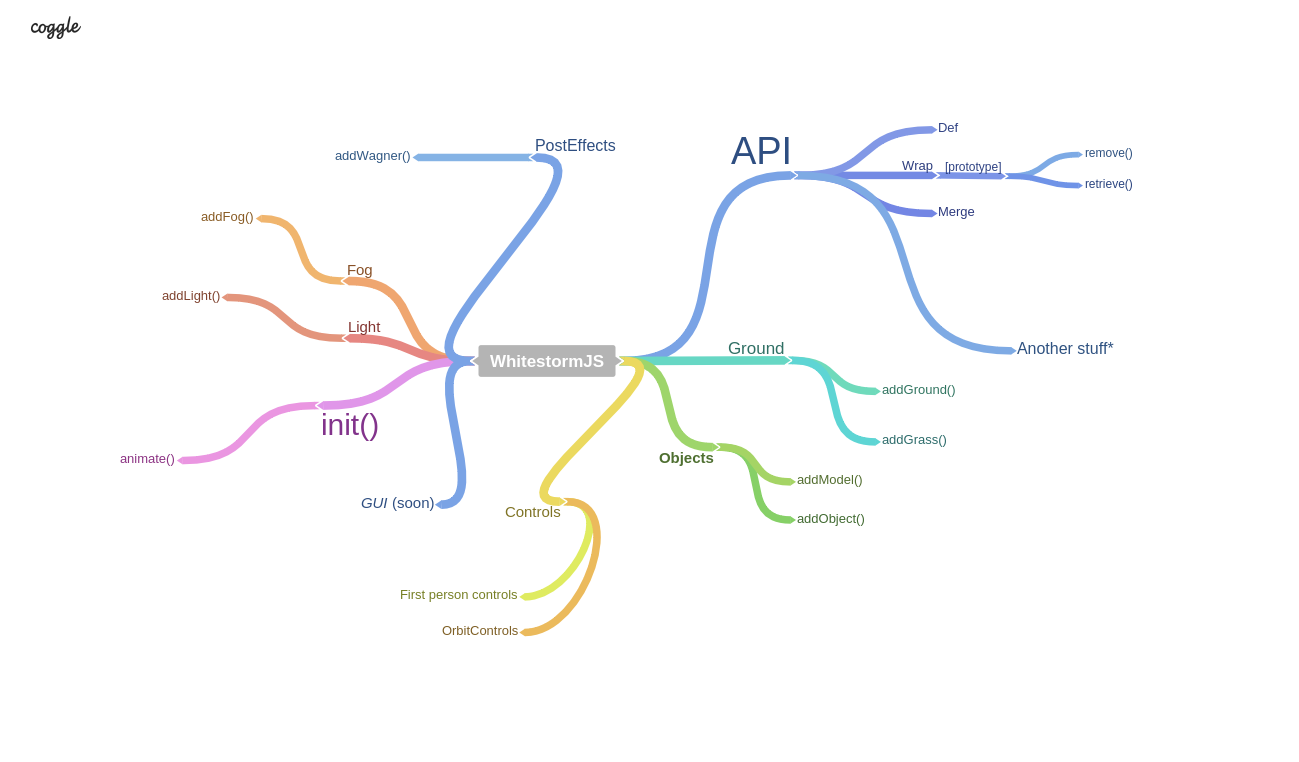
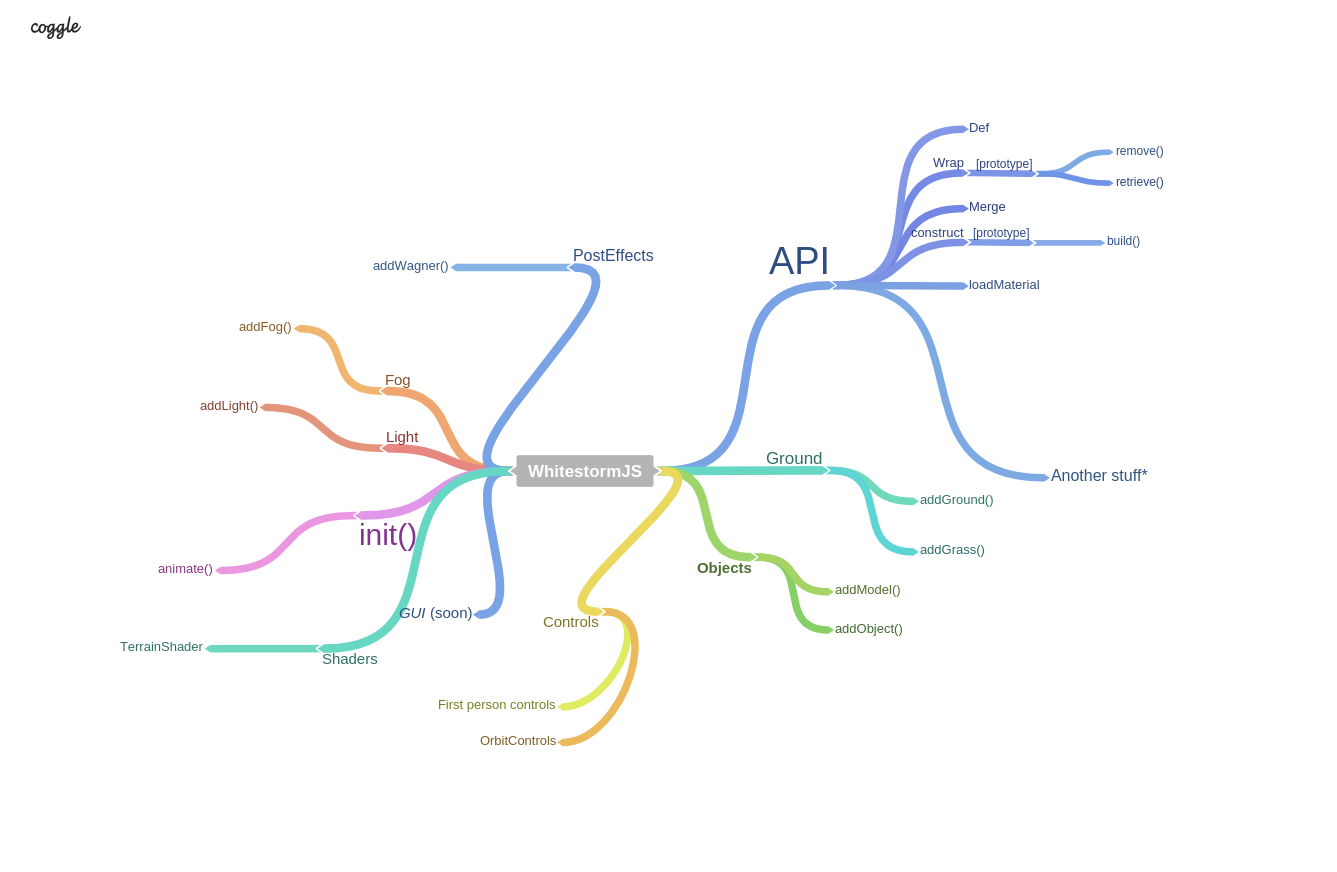
COGGLE

Changed region(s): [[0.0924, 0.1207, 0.893, 0.8753], [0.0308, 0.0, 0.0616, 0.0604], [0.1848, 0.5433, 0.2156, 0.5735]]

diff --git a/CHANGELOG.md b/CHANGELOG.md
@@ -3,6 +3,7 @@
 - Added *api.loadMaterial* function.
 - Added *api.construct* function.
 - Fixed *lathe* physics error.
+- Changed coggle.
 
 **current** (v0.0.6-alpha)
 - added Coggle.
